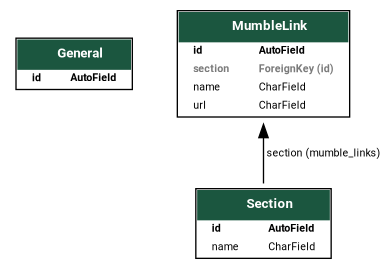
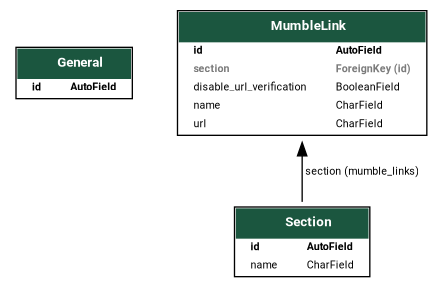
[RELEASE] v0.0.5

Changed region(s): [[0.3731, 0.0297, 0.9948, 0.9814], [0.0311, 0.119, 0.342, 0.3569]]

diff --git a/aa_mumble_quick_connect/__init__.py b/aa_mumble_quick_connect/__init__.py
@@ -2,5 +2,5 @@
 Initialize the app
 """
 
-__version__ = "0.0.4"
+__version__ = "0.0.5"
 __title__ = "AA Mumble Quick Connect"

diff --git a/CHANGELOG.md b/CHANGELOG.md
@@ -41,6 +41,8 @@ Section Order:
 ### Security
 -->
 
+## [0.0.5] - 2025-02-14
+
 ### Added
 
 - Option to disable link verification (Suggested by @pvyParts)
